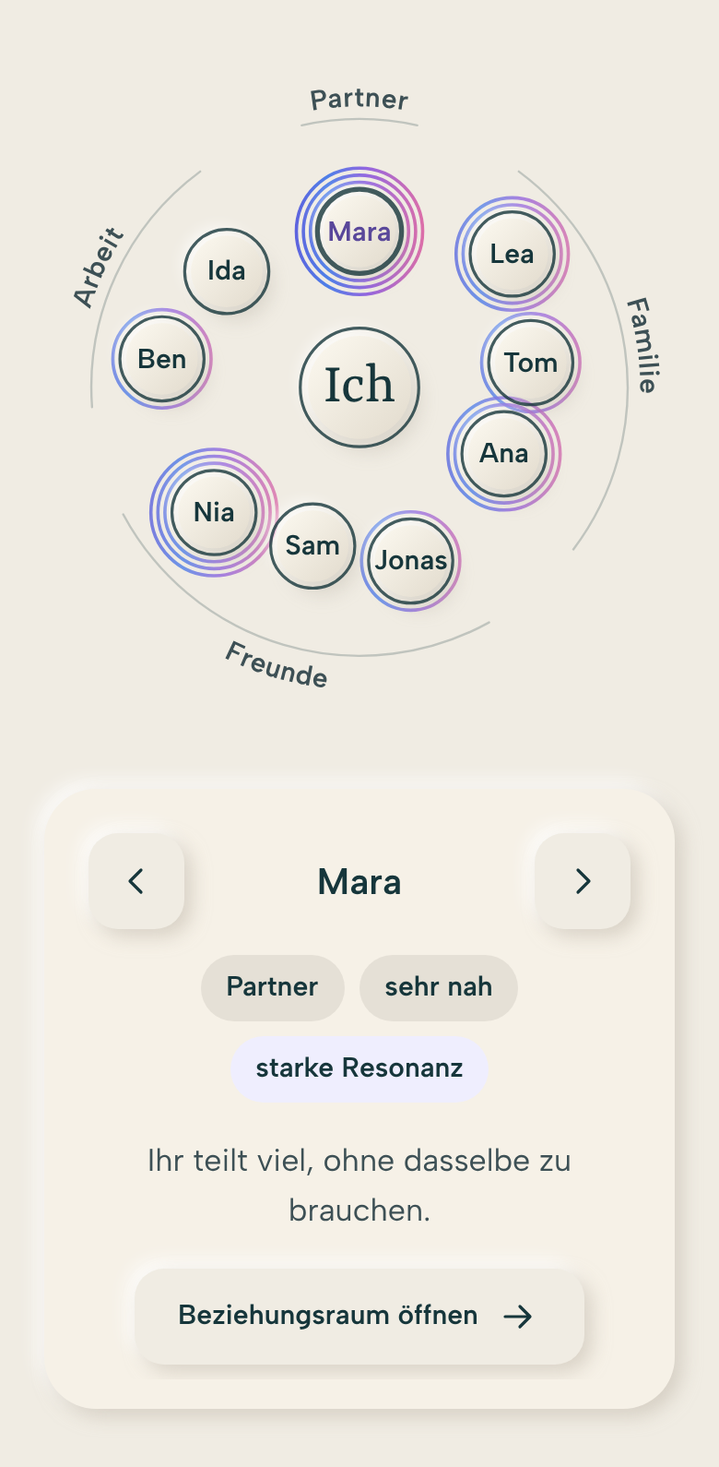
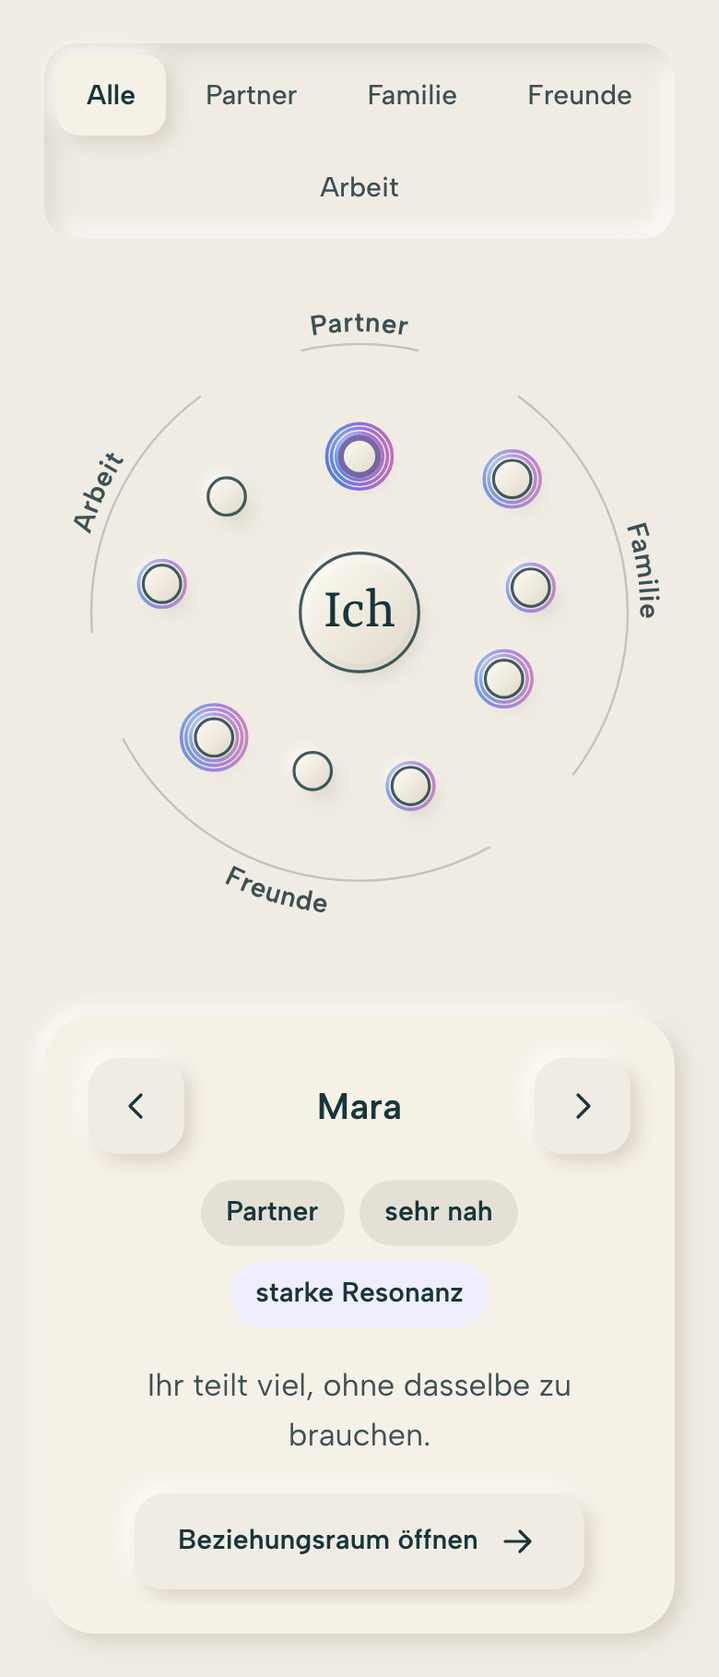
Umfeld auf dem Telefon: Übersicht und eine Gruppe gross
Über dem Bild wählt man «Alle» oder eine Art. «Alle» zeigt die Gruppen
als Punkte ohne Namen, eine Art zeigt ihre Menschen gross mit Namen. Der
Filter folgt der Auswahl. Am Desktop bleibt das Bild wie es ist. Entwurf,
noch ohne neue Version.

Claude-Session: https://claude.ai/code/session_01GcUU3Qg4dj9oPnZ4iDHoTB

diff --git a/components/umfeld/umfeld.js b/components/umfeld/umfeld.js
@@ -20,21 +20,30 @@
    Das Bild ist auf seinen Inhalt beschnitten (Rand 16 Einheiten),
    damit das Panel früh im Sichtfeld steht.
 
-   Mobile-first: Unter 560 px Breite gilt ein Hochformat mit grösseren
-   Kreisen, damit Namen in echten 15 px in ihren Kreis passen. Wird das
-   Element breiter oder schmaler, baut sich das Bild neu auf.
+   Mobile-first: Unter 560 px Breite gilt das Hochformat. Neun Menschen waren dort bei 390 px zu eng
+   (gemessen), darum steht über dem Bild eine Filterzeile: «Alle» ist die Übersicht, die Menschen
+   stehen als kleine Punkte ohne Namen in ihren Gruppen (je Gruppe ein transparenter Knopf, Tipp wählt
+   die Art). Eine Art zeigt nur ihre Menschen, gross und mit Namen, gleichmässig rund um «Ich», ohne
+   Bögen. Der Filter folgt der Auswahl: Pfeile und Slider laufen durch alle Menschen, und wechselt man
+   in eine andere Art, springt der Filter mit. Ab 560 px (wide) gibt es keinen Filter, das Bild zeigt
+   alle mit Namen. Wird das Element breiter oder schmaler, baut sich das Bild neu auf, die Auswahl bleibt.
 
    API: ElanumUmfeld.mount(root, { link: 'pfad/zum/beziehungsraum/', heading: 'h3' })
         gibt { select(i), parts } zurück. select(i) wählt den Menschen i (läuft um).
+        parts.people: je sichtbarem Menschen { index, person, disc, contour, rings, name (nur mit Namen), from, at, width },
+        parts.groups: die Gruppen-Knöpfe der Übersicht, parts.view: 'wide', 'all' oder 'kind'.
    ============================================================ */
 (function () {
   'use strict';
   var NS = 'http://www.w3.org/2000/svg';
-  /* ring: Abstand der Linien um die Person. Im Hochformat enger, damit sie im Bild bleiben.
+  /* ring: Abstand der Linien um die Person. In der Übersicht enger, damit sie im Bild bleiben.
      out: Radius der Bögen, fs0: Grundgrösse der Bogenwörter in Bildeinheiten, px0: Breite der Bühne, falls noch nicht messbar. */
   var LAYOUTS = {
     wide: { W: 760, H: 760, CX: 380, CY: 380, ME: 58, R: 40, base: 150, k: 1.15, edge: 340, ring: 7, out: 345, fs0: 17, px0: 640 },
-    tall: { W: 400, H: 400, CX: 200, CY: 200, ME: 38, R: 27, base: 92, k: 0.5, edge: 168, ring: 4.5, out: 172, fs0: 15, px0: 358 }
+    /* Übersicht auf dem Telefon: Menschen als kleine Punkte ohne Namen. */
+    all: { W: 400, H: 400, CX: 200, CY: 200, ME: 38, R: 12, base: 92, k: 0.5, edge: 168, ring: 3, out: 172, fs0: 15, px0: 358 },
+    /* Eine Art auf dem Telefon: gross, mit Namen, gleichmässig rund um «Ich», keine Bögen. */
+    kind: { W: 400, H: 400, CX: 200, CY: 200, ME: 52, R: 44, base: 120, k: 0.8, edge: 200, ring: 6, out: 172, fs0: 15, px0: 358 }
   };
   /* Der Winkel sagt die Art. Die Reihenfolge der Arten läuft im Uhrzeigersinn, die erste steht oben. */
   var KINDS = ['Partner', 'Familie', 'Freunde', 'Arbeit'];
@@ -62,7 +71,7 @@
     root.classList.add('umfeld');
     var ARROW_PREV = '<svg class="icon" viewBox="0 0 24 24" aria-hidden="true"><path d="M14.5 6l-6 6 6 6"/></svg>';
     var ARROW_NEXT = '<svg class="icon" viewBox="0 0 24 24" aria-hidden="true"><path d="M9.5 6l6 6-6 6"/></svg>';
-    root.innerHTML = '<div class="umfeld__stage"><div class="umfeld__scene"></div></div>' +
+    root.innerHTML = '<div class="umfeld__stage"><div class="umfeld__filter segmented" role="group" aria-label="Gruppe wählen" hidden></div><div class="umfeld__scene"></div></div>' +
       '<div class="umfeld__panel" role="group" aria-roledescription="Karussell" aria-label="Menschen in deinem Umfeld">' +
         '<div class="umfeld__nav">' +
           '<button class="button button--secondary button--icon glow-edge" type="button" data-nav="prev" aria-label="Vorheriger Mensch">' + ARROW_PREV + '</button>' +
@@ -74,9 +83,9 @@
         '</div>' +
         '<p class="umfeld__live" aria-live="polite"></p>' +
       '</div>';
-    var stage = root.querySelector('.umfeld__scene'), slider = root.querySelector('.umfeld__slides');
+    var stage = root.querySelector('.umfeld__scene'), filterBar = root.querySelector('.umfeld__filter'), slider = root.querySelector('.umfeld__slides');
     var current = root.querySelector('.umfeld__current'), live = root.querySelector('.umfeld__live');
-    var selected = 0, layoutName = '', api = { parts: {} };
+    var selected = 0, layoutName = '', filter = 'all', api = { parts: {} };
     var calm = function () { return window.matchMedia && matchMedia('(prefers-reduced-motion: reduce)').matches; };
 
     var slides = PEOPLE.map(function (p) {
@@ -143,27 +152,61 @@
     slider.addEventListener('click', function (e) { if (suppress) { e.preventDefault(); e.stopPropagation(); } }, true);
     slider.addEventListener('dragstart', function (e) { e.preventDefault(); });
 
-    /* Das Bild: aus einem Layout berechnet, bei Bedarf neu gezeichnet. */
+    /* Filterzeile (nur im Hochformat): «Alle» und je eine vorhandene Art. */
+    var KINDS_IN = KINDS.filter(function (k) { return PEOPLE.some(function (p) { return p.kind === k; }); });
+    var filterButtons = ['Alle'].concat(KINDS_IN).map(function (label) {
+      var b = document.createElement('button'); b.type = 'button'; b.textContent = label;
+      b.setAttribute('aria-pressed', 'false'); b.setAttribute('data-filter', label === 'Alle' ? 'all' : label);
+      b.addEventListener('click', function () { setFilter(label === 'Alle' ? 'all' : label); });
+      filterBar.appendChild(b); return b;
+    });
+    function markFilter() {
+      filterBar.hidden = layoutName === 'wide';
+      filterButtons.forEach(function (b) { b.setAttribute('aria-pressed', String(b.getAttribute('data-filter') === filter)); });
+    }
+    function firstOf(kind) { for (var i = 0; i < PEOPLE.length; i++) if (PEOPLE[i].kind === kind) return i; return 0; }
+    function setFilter(f) {
+      if (f === filter) return;
+      filter = f;
+      if (f !== 'all' && PEOPLE[selected].kind !== f) select(firstOf(f));
+      render(true);
+    }
+
+    /* Das Bild: aus einem Layout berechnet, bei Bedarf neu gezeichnet.
+       name: 'wide' oder 'tall'. Im Hochformat gilt je nach Filter die Übersicht ('all') oder eine Art ('kind'). */
     var lastW = -1;
+    function render(fade) {
+      draw(layoutName);
+      if (fade && !calm()) { stage.classList.remove('is-fresh'); void stage.offsetWidth; stage.classList.add('is-fresh'); }
+    }
     function draw(name) {
-      var L = LAYOUTS[name];
+      /* Der Filter folgt der Auswahl: nach einem Wechsel von wide auf tall passt er sich an. */
+      if (name === 'tall' && filter !== 'all' && PEOPLE[selected].kind !== filter) filter = PEOPLE[selected].kind;
+      var mode = name === 'wide' ? 'wide' : filter === 'all' ? 'all' : 'kind';
+      var L = LAYOUTS[mode];
+      var hadFocus = stage.contains(document.activeElement);
       layoutName = name;
       var px = stage.getBoundingClientRect().width; lastW = px;
+      /* Wer wird gezeichnet: alle, oder nur die gewählte Art. */
+      var list = [];
+      PEOPLE.forEach(function (p, i) { if (mode !== 'kind' || p.kind === filter) list.push({ p: p, i: i }); });
       /* Gruppen: Arten ohne Menschen bekommen keinen Platz. Jede Gruppe hat ihren Platz (slot), die Menschen stehen darin gleichmässig. */
-      var kinds = KINDS.filter(function (k) { return PEOPLE.some(function (p) { return p.kind === k; }); });
+      var kinds = mode === 'kind' ? [] : KINDS_IN;
       var per = (360 - GAP * kinds.length) / PEOPLE.length, at = 0;
       var groups = kinds.map(function (k, gi) {
         var n = PEOPLE.filter(function (p) { return p.kind === k; }).length;
         if (gi === 0) at = -per * n / 2;
-        var g = { kind: k, a0: at, a1: at + per * n, mid: at + per * n / 2 };
+        var g = { kind: k, a0: at, a1: at + per * n, mid: at + per * n / 2, n: n };
         at = g.a1 + GAP; return g;
       });
       var pos = function (a, d) { var r = a * Math.PI / 180; return [L.CX + d * Math.sin(r), L.CY - d * Math.cos(r)]; };
       var first = {};
       /* Lage aller Menschen zuerst: daraus wird das Bild auf den Inhalt beschnitten. */
-      var geo = PEOPLE.map(function (p) {
-        var gr = groups[kinds.indexOf(p.kind)], idx = first[p.kind] = (first[p.kind] === undefined ? 0 : first[p.kind] + 1);
-        var ang = gr.a0 + per * (idx + 0.5), dist = L.base + (100 - p.proximity) * L.k, xy = pos(ang, dist);
+      var geo = list.map(function (e, n) {
+        var p = e.p, ang;
+        if (mode === 'kind') ang = 360 / list.length * n;
+        else { var gr = groups[kinds.indexOf(p.kind)], idx = first[p.kind] = (first[p.kind] === undefined ? 0 : first[p.kind] + 1); ang = gr.a0 + per * (idx + 0.5); }
+        var dist = L.base + (100 - p.proximity) * L.k, xy = pos(ang, dist);
         var level = p.resonance === 0 ? 0 : p.resonance < 40 ? 1 : p.resonance < 80 ? 2 : 3;
         return { dist: dist, level: level, x: xy[0], y: xy[1] };
       });
@@ -185,7 +228,10 @@
           [[b0, b1, L.out], [gr.mid - half, gr.mid + half, outer]].forEach(function (r) {
             for (var a = r[0]; a <= r[1]; a += 1) { var c = pos(a, r[2]); grow(c[0], c[1]); }
           });
-          return { gr: gr, bottom: bottom, tr: tr, b0: b0, b1: b1 };
+          /* Rechteck des Wortes (für den Gruppen-Knopf der Übersicht). */
+          var lo = bottom ? tr - fs * 0.8 : tr, hi = bottom ? tr : tr + fs * 0.8, wx0 = 1e9, wx1 = -1e9, wy0 = 1e9, wy1 = -1e9;
+          for (var wa = gr.mid - half; wa <= gr.mid + half; wa += 1) [lo, hi].forEach(function (d) { var c = pos(wa, d); wx0 = Math.min(wx0, c[0]); wx1 = Math.max(wx1, c[0]); wy0 = Math.min(wy0, c[1]); wy1 = Math.max(wy1, c[1]); });
+          return { gr: gr, bottom: bottom, tr: tr, b0: b0, b1: b1, word: [wx0, wy0, wx1, wy1] };
         });
         var halfW = Math.max(L.W / 2, L.CX - minX + 8, maxX - L.CX + 8);
         vbX = L.CX - halfW; vbW = 2 * halfW;
@@ -195,7 +241,7 @@
       var fx = function (x) { return (x - vbX) / vbW * 100; };
       var fy = function (y) { return (y - vbY) / vbH * 100; };
       stage.innerHTML = '<svg class="umfeld__svg" viewBox="' + vbX + ' ' + vbY + ' ' + vbW + ' ' + vbH + '" aria-hidden="true"><defs></defs></svg>';
-      stage.dataset.layout = name;
+      stage.dataset.layout = name; stage.dataset.view = mode;
       var svg = stage.firstChild, defs = svg.firstChild;
       var relief = el('linearGradient', { id: uid + '-relief', x1: '0%', y1: '0%', x2: '100%', y2: '100%' });
       relief.appendChild(el('stop', { offset: 0, 'stop-color': '#FCF9F0' })); relief.appendChild(el('stop', { offset: 1, 'stop-color': '#E2DBCD' }));
@@ -231,17 +277,16 @@
         b.style.width = 2 * L.R / vbW * 100 + '%'; b.style.height = 2 * L.R / vbH * 100 + '%';
         b.addEventListener('click', function () { select(i); });
         b.addEventListener('keydown', function (e) {
-          var at = PEOPLE.indexOf(p), d = e.key === 'ArrowRight' || e.key === 'ArrowDown' ? 1 : e.key === 'ArrowLeft' || e.key === 'ArrowUp' ? -1 : 0;
+          var d = e.key === 'ArrowRight' || e.key === 'ArrowDown' ? 1 : e.key === 'ArrowLeft' || e.key === 'ArrowUp' ? -1 : 0;
           if (!d) return;
-          e.preventDefault(); select(at + d);
-          var q = api.parts.people[selected]; if (q) q.name.focus();
+          e.preventDefault(); select(i + d); focusSelected();
         });
         stage.appendChild(b); return b;
       };
       label('Ich', L.CX, L.CY, 'umfeld__name--me');
 
-      var people = PEOPLE.map(function (p, i) {
-        var g = geo[i], dist = g.dist, x = g.x, y = g.y, level = g.level;
+      var people = list.map(function (e, n) {
+        var p = e.p, i = e.i, g = geo[n], dist = g.dist, x = g.x, y = g.y, level = g.level;
         var ux = (x - L.CX) / dist, uy = (y - L.CY) / dist;
         var stroke = null, ringList = [];
         if (level) {
@@ -253,31 +298,74 @@
           var ring = el('circle', { cx: x, cy: y, r: L.R + L.ring * k, class: 'umfeld__ring', stroke: 'url(#' + uid + '-g' + i + ')', 'stroke-width': 1.8, 'data-ring': '' });
           rings.appendChild(ring); ringList.push(ring);
         }
-        var disc = el('circle', { cx: x, cy: y, r: L.R - 4, fill: 'url(#' + uid + '-relief)', class: 'relief-disc' });
+        var disc = el('circle', { cx: x, cy: y, r: L.R - (mode === 'all' ? 2 : 4), fill: 'url(#' + uid + '-relief)', class: 'relief-disc' });
         discs.appendChild(disc);
         var contour = el('circle', { cx: x, cy: y, r: L.R, class: 'umfeld__contour', 'data-contour': '' });
         lines.appendChild(contour);
-        return { person: p, rings: ringList, disc: disc, contour: contour, name: pick(p, i, x, y),
-          from: { x: L.CX + ux * L.edge, y: L.CY + uy * L.edge }, at: { x: x, y: y }, width: vbW };
+        return { index: i, person: p, rings: ringList, disc: disc, contour: contour, name: mode === 'all' ? null : pick(p, i, x, y),
+          from: { x: L.CX + ux * L.edge, y: L.CY + uy * L.edge }, at: { x: x, y: y }, width: vbW, r: L.R + L.ring * level };
       });
-      api.parts = { svg: svg, me: me, people: people, arcs: arcs, width: vbW, top: vbY, height: vbH };
-      mark();
+
+      /* Übersicht: über jeder Gruppe ein transparenter Knopf. Fläche = Punkte samt Ringen plus Wort, mindestens 44 px.
+         Schneiden sich zwei Flächen, gilt für diese nur die Fläche der Punkte samt Ringen. */
+      var groupBtns = [];
+      if (mode === 'all') {
+        var minU = 44 / ((px || L.px0) / vbW), minV = 44 / ((px || L.px0) / vbH);
+        var boxes = items.map(function (it) {
+          var d = [1e9, 1e9, -1e9, -1e9];
+          people.forEach(function (q) {
+            if (q.person.kind !== it.gr.kind) return;
+            d = [Math.min(d[0], q.at.x - q.r), Math.min(d[1], q.at.y - q.r), Math.max(d[2], q.at.x + q.r), Math.max(d[3], q.at.y + q.r)];
+          });
+          return { dots: d, full: [Math.min(d[0], it.word[0]), Math.min(d[1], it.word[1]), Math.max(d[2], it.word[2]), Math.max(d[3], it.word[3])] };
+        });
+        var atLeast = function (b) {
+          var cx = (b[0] + b[2]) / 2, cy = (b[1] + b[3]) / 2, w = Math.max(b[2] - b[0], minU), h = Math.max(b[3] - b[1], minV);
+          return [cx - w / 2, cy - h / 2, cx + w / 2, cy + h / 2];
+        };
+        var cut = function (a, b) { return a[0] < b[2] && b[0] < a[2] && a[1] < b[3] && b[1] < a[3]; };
+        var rect = boxes.map(function (b) { return atLeast(b.full); }), mode2 = rect.map(function () { return 'wort'; });
+        rect.forEach(function (a, x) { rect.forEach(function (b, y) { if (x < y && cut(a, b)) mode2[x] = mode2[y] = 'punkte'; }); });
+        rect = boxes.map(function (b, x) { return atLeast(mode2[x] === 'wort' ? b.full : b.dots); });
+        items.forEach(function (it, gi) {
+          var r = rect[gi], b = document.createElement('button'), n = it.gr.n;
+          b.type = 'button'; b.className = 'umfeld__group'; b.setAttribute('data-kind', it.gr.kind); b.setAttribute('data-fit', mode2[gi]);
+          b.setAttribute('aria-label', it.gr.kind + ', ' + n + (n === 1 ? ' Mensch' : ' Menschen') + ', öffnen');
+          b.style.left = fx(r[0]) + '%'; b.style.top = fy(r[1]) + '%';
+          b.style.width = (r[2] - r[0]) / vbW * 100 + '%'; b.style.height = (r[3] - r[1]) / vbH * 100 + '%';
+          b.addEventListener('click', function () { setFilter(it.gr.kind); });
+          stage.appendChild(b); groupBtns.push(b);
+        });
+      }
+      api.parts = { svg: svg, me: me, people: people, arcs: arcs, groups: groupBtns, view: mode, width: vbW, top: vbY, height: vbH };
+      mark(); markFilter();
+      /* Fokus geht beim Neuzeichnen nicht verloren. */
+      if (hadFocus) focusSelected();
+    }
+
+    /* Fokus auf den Knopf des gewählten Menschen, in der Übersicht auf den Knopf seiner Gruppe. */
+    function focusSelected() {
+      var q = (api.parts.people || []).filter(function (x) { return x.index === selected; })[0];
+      if (q && q.name) { q.name.focus(); return; }
+      var g = (api.parts.groups || []).filter(function (x) { return x.getAttribute('data-kind') === PEOPLE[selected].kind; })[0];
+      if (g) g.focus();
     }
 
     function mark() {
-      (api.parts.people || []).forEach(function (q, k) {
-        var on = k === selected;
+      (api.parts.people || []).forEach(function (q) {
+        var on = q.index === selected;
         q.contour.classList.toggle('is-active', on);
-        q.name.classList.toggle('is-active', on);
         q.rings.forEach(function (r) { r.classList.toggle('is-active', on); });
+        if (q.name) { q.name.classList.toggle('is-active', on); q.name.setAttribute('aria-pressed', String(on)); }
       });
-      (api.parts.people || []).forEach(function (q, k) { q.name.setAttribute('aria-pressed', String(k === selected)); });
     }
     function select(i, fromScroll) {
       i = ((i % PEOPLE.length) + PEOPLE.length) % PEOPLE.length;
       var first = !api.ready;
-      selected = i; mark();
+      selected = i;
       var p = PEOPLE[i];
+      /* Gehört der Mensch zu einer anderen Art, wechselt der Filter mit (nur im Hochformat). */
+      if (layoutName === 'tall' && filter !== 'all' && p.kind !== filter) { filter = p.kind; render(true); } else mark();
       slides.forEach(function (s, k) {
         var on = k === i;
         if (on) { s.removeAttribute('inert'); s.removeAttribute('aria-hidden'); } else { s.setAttribute('inert', ''); s.setAttribute('aria-hidden', 'true'); }
@@ -287,7 +375,9 @@
       if (!first) live.textContent = 'Du & ' + p.name + ', ' + words(p);
       if (!fromScroll) slideTo(i, !first);
     }
-    var pickLayout = function () { var w = stage.getBoundingClientRect().width || root.getBoundingClientRect().width; return w && w < 560 ? 'tall' : 'wide'; };
+    /* Die Breite der Bühne (Spalte), nicht der Szene: im Hochformat ist die Szene höchstens 440 px breit und käme sonst nie mehr zurück auf wide. */
+    var column = root.querySelector('.umfeld__stage');
+    var pickLayout = function () { var w = column.getBoundingClientRect().width || root.getBoundingClientRect().width; return w && w < 560 ? 'tall' : 'wide'; };
     draw(pickLayout());
     select(0);
     api.ready = true;

diff --git a/assets/motion.js b/assets/motion.js
@@ -243,7 +243,8 @@
       /* Bis die Szene sichtbar wird, bleibt sie verborgen, statt kurz voll dazustehen
          und dann für den Auftritt wieder zu verschwinden. */
       var panel = el.querySelector('.umfeld__panel');
-      var veiled = [stage, panel].filter(Boolean);
+      var filter = el.querySelector('.umfeld__filter');
+      var veiled = [stage, filter, panel].filter(Boolean);
       hideUntilVisible(veiled);
       finishers.push(function () { gsap.set(veiled, { clearProps: 'opacity' }); });
       whenVisible(stage, function () {
@@ -258,7 +259,8 @@
           var dx = p.from.x - p.at.x, dy = p.from.y - p.at.y, at = 0.3 + i * M.stagger.items;
           tl.from([p.disc, p.contour], { x: dx, y: dy, opacity: 0, duration: 1.3 }, at);
           if (p.rings.length) tl.from(p.rings, { x: dx, y: dy, duration: 1.3, clearProps: 'transform' }, at);
-          tl.fromTo(p.name, { x: dx * scale, y: dy * scale, opacity: 0 }, { x: 0, y: 0, opacity: 1, duration: 1.3, clearProps: CLEAR }, at);
+          /* In der Übersicht (Telefon) gibt es keine Namen-Knöpfe: nichts zu bewegen. */
+          if (p.name) tl.fromTo(p.name, { x: dx * scale, y: dy * scale, opacity: 0 }, { x: 0, y: 0, opacity: 1, duration: 1.3, clearProps: CLEAR }, at);
         });
         /* Die Linien um die Person blenden sanft ein, wo vorher die Verbindung gezeichnet wurde. */
         people.forEach(function (p, i) { if (p.rings.length) tl.from(p.rings, { opacity: 0, duration: 0.9, ease: M.ease.reveal, stagger: 0.15, clearProps: 'opacity' }, 1.4 + i * 0.15); });
@@ -266,6 +268,8 @@
         if (api.parts.arcs && api.parts.arcs.length) tl.from(api.parts.arcs, { opacity: 0, duration: 0.8, ease: M.ease.reveal, stagger: 0.08, clearProps: 'opacity' }, 1.0);
         /* Das Panel als Ganzes früh: die Bedienung steht da, bevor die Kreise ankommen. */
         if (panel) tl.from(panel, { opacity: 0, y: M.y, duration: 0.6, clearProps: CLEAR }, 0.4);
+        /* Die Filterzeile (nur im Hochformat sichtbar) kommt mit dem Panel. */
+        if (filter && !filter.hidden) tl.from(filter, { opacity: 0, y: M.y, duration: 0.6, clearProps: CLEAR }, 0.4);
       }, 0.3);
     });
   }

diff --git a/components/umfeld/umfeld.css b/components/umfeld/umfeld.css
@@ -40,3 +40,14 @@
 .umfeld__scene[data-layout=tall] .umfeld__name{font:var(--type-label);font-weight:600}
 .umfeld__scene[data-layout=tall] .umfeld__name--me{font:var(--type-title);font-size:32px;line-height:1}
 @media(min-width:900px){.umfeld{grid-template-columns:minmax(0,1.2fr) minmax(0,.8fr);column-gap:clamp(48px,6vw,96px);align-items:center}}
+/* Filterzeile im Hochformat: Pillen wie .segmented (base.css), mittig umbrechend. Im breiten Layout verborgen. */
+.umfeld__filter{justify-content:center;max-width:100%;box-sizing:border-box}
+.umfeld__filter[hidden]{display:none}
+/* Übersicht: Menschen sind Punkte, die gewählte hat eine kräftigere Kontur. Je Gruppe liegt ein transparenter Knopf darüber. */
+.umfeld__scene[data-view=all] .umfeld__contour.is-active:not(.umfeld__me){stroke:var(--sterne-tief);stroke-width:3.2}
+.umfeld__group{position:absolute;display:block;padding:0;border:0;border-radius:14px;background:transparent;color:inherit;cursor:pointer;-webkit-tap-highlight-color:transparent}
+.umfeld__group:focus-visible{outline-offset:-3px}
+/* Ein Wechsel des Filters blendet das neue Bild weich ein (nur Deckkraft). */
+@keyframes umfeld-fresh{from{opacity:0}to{opacity:1}}
+.umfeld__scene.is-fresh{animation:umfeld-fresh 220ms ease-out}
+@media(prefers-reduced-motion:reduce){.umfeld__scene.is-fresh{animation:none}}

diff --git a/DESIGN-NOTES.md b/DESIGN-NOTES.md
@@ -245,7 +245,7 @@ Im Zentrum steht das Resonanzrad mit neun Elementen: den Grundlagen, aus denen R
 - Der Ring zeigt die drei Bereiche gleich stark und hebt nichts hervor. Icons, Konturen und Auswahlbogen sind Ink.
 - Seit 4.11.1 steht das Rad still: Ein Tipp wählt das Stück an seinem Platz, nichts dreht und nichts lässt sich ziehen. In der App wählen Rad und Pfeile nur, «Lesen» und die Liste öffnen das Element als Fenster (Telefon von unten, Computer Mitte); dieser Aufbau ist im Baustein noch nicht nachgebaut.
 
-**Umfeld** (`components/umfeld/`): Ich in der Mitte, Menschen als eigene, geschlossene Kreise. Der Abstand zeigt die Nähe. Null bis drei Linien im Verlauf um die Person zeigen die Resonanz, wie im Beziehungsraum; ohne aktive Resonanz gibt es keine Linie. Keine Linie führt zur Mitte, und einen Freiraum gibt es nicht, weil das Umfeld den Wert nicht kennt. Die Kreise sind Knöpfe: Ein Klick auf Kreis oder Name wählt den Menschen. Aufbau: das Bild, darunter ein einziges Panel (erhöhte Karte, ohne Trennstrich). Oben im Panel stehen die Pfeile (wie beim Resonanzrad) mit dem Namen des gewählten Menschen, direkt darunter Nähe und Resonanz als Pillen, die Notiz und der Knopf, alles zentriert. Jede Angabe steht nur einmal: kein „Du & Name“ und keine zweite Zustandszeile. Der Lesebereich lässt sich mit Finger oder Maus ziehen, Kreis, Name und Lesebereich bleiben im Gleichschritt. Die Liste entfällt, und die Karte mit Zähler ebenso (Rückmeldung Chris vom 15.11.2026: Design wie Ich-Übersicht, gleiche Pfeile, Pillen, mehr Raum und früher sichtbar; Rückmeldung Chris vom 16.11.2026: eine Einheit, jede Angabe einmal). Das Bild ist senkrecht auf den Inhalt beschnitten, damit das Panel früh im Sichtfeld steht, und im Auftritt erscheint es als Ganzes nach 0,4 Sekunden. Ab 900 px steht das Panel rechts neben dem Bild, zur Bildmitte ausgerichtet. Der Lesebereich öffnet den Beziehungsraum mit den Werten des Menschen. So trägt das Umfeld mehr als eine einzelne Beziehung. Unter 560 px Breite gilt ein Hochformat mit grösseren Kreisen, damit die Namen in echten 15 px hineinpassen. Entwurf vom 15.11.2026, die Version ist noch nicht freigegeben. Cluster nach Art: Der Winkel ist die Art, der Abstand die Nähe, die Linien sind die Resonanz. Wer zusammengehört, steht beieinander. Ein feiner Bogen mit dem Wort der Art fasst jede Gruppe, wie die Bereiche des Resonanzrads (Wort mindestens 15 px, in der unteren Hälfte andersherum, damit es nicht auf dem Kopf steht). Arten ohne Menschen bekommen keinen Platz, zwischen den Gruppen liegen 16°, die erste Gruppe steht oben. Die Art steht als erste Pille beim Menschen. Die Liste Partner, Familie, Freunde, Arbeit hat Chris am 16.11.2026 freigegeben. Der Glossar-Eintrag dazu steht noch aus. Auf dem Telefon wird es ab etwa acht Menschen eng, dann braucht es einen Filter nach Art.
+**Umfeld** (`components/umfeld/`): Ich in der Mitte, Menschen als eigene, geschlossene Kreise. Der Abstand zeigt die Nähe. Null bis drei Linien im Verlauf um die Person zeigen die Resonanz, wie im Beziehungsraum; ohne aktive Resonanz gibt es keine Linie. Keine Linie führt zur Mitte, und einen Freiraum gibt es nicht, weil das Umfeld den Wert nicht kennt. Die Kreise sind Knöpfe: Ein Klick auf Kreis oder Name wählt den Menschen. Aufbau: das Bild, darunter ein einziges Panel (erhöhte Karte, ohne Trennstrich). Oben im Panel stehen die Pfeile (wie beim Resonanzrad) mit dem Namen des gewählten Menschen, direkt darunter Nähe und Resonanz als Pillen, die Notiz und der Knopf, alles zentriert. Jede Angabe steht nur einmal: kein „Du & Name“ und keine zweite Zustandszeile. Der Lesebereich lässt sich mit Finger oder Maus ziehen, Kreis, Name und Lesebereich bleiben im Gleichschritt. Die Liste entfällt, und die Karte mit Zähler ebenso (Rückmeldung Chris vom 15.11.2026: Design wie Ich-Übersicht, gleiche Pfeile, Pillen, mehr Raum und früher sichtbar; Rückmeldung Chris vom 16.11.2026: eine Einheit, jede Angabe einmal). Das Bild ist senkrecht auf den Inhalt beschnitten, damit das Panel früh im Sichtfeld steht, und im Auftritt erscheint es als Ganzes nach 0,4 Sekunden. Ab 900 px steht das Panel rechts neben dem Bild, zur Bildmitte ausgerichtet. Der Lesebereich öffnet den Beziehungsraum mit den Werten des Menschen. So trägt das Umfeld mehr als eine einzelne Beziehung. Unter 560 px Breite der Bühne gilt das Hochformat (Telefon): Über dem Bild steht eine Filterzeile nach Art («Alle», Partner, Familie, Freunde, Arbeit). «Alle» ist die Übersicht, die Menschen stehen als kleine Punkte ohne Namen in ihren Gruppen, über jeder Gruppe liegt ein einziger Knopf (Tipp wählt die Art und den ersten Menschen). Eine Art zeigt nur ihre Menschen, gross und mit Namen in echten 15 px, gleichmässig rund um «Ich», ohne Bögen. Pfeile und Slider laufen weiter durch alle Menschen, der Filter folgt der Auswahl. Grund: Neun Menschen waren bei 390 px zu eng, gemessen (Ringe überlappten um 4 bis 6 px, bei 320 px ragte «Jonas» aus dem Kreis). Entscheid Chris vom 16.11.2026. Ab 560 px gibt es keinen Filter, das Bild zeigt alle mit Namen. Entwurf vom 15.11.2026, die Version ist noch nicht freigegeben. Cluster nach Art: Der Winkel ist die Art, der Abstand die Nähe, die Linien sind die Resonanz. Wer zusammengehört, steht beieinander. Ein feiner Bogen mit dem Wort der Art fasst jede Gruppe, wie die Bereiche des Resonanzrads (Wort mindestens 15 px, in der unteren Hälfte andersherum, damit es nicht auf dem Kopf steht). Arten ohne Menschen bekommen keinen Platz, zwischen den Gruppen liegen 16°, die erste Gruppe steht oben. Die Art steht als erste Pille beim Menschen. Die Liste Partner, Familie, Freunde, Arbeit hat Chris am 16.11.2026 freigegeben. Der Glossar-Eintrag dazu steht noch aus. Der Filter nach Art auf dem Telefon ist umgesetzt (siehe oben).
 
 **Beziehungsraum** (`components/beziehungsraum/`), neue Darstellung vom 15.11.2026 (Entwurf, PR 24). Der Baustein wird in der App ohne Regler gezeigt, darum muss das Bild allein lesbar sein. Jeder Wert hat ein eigenes Zeichen:
 - SVG-Raum 720 × 400, Mitte y = 170. Die Person ist ein Kreis mit Radius 50, immer gleich gross.

diff --git a/README.md b/README.md
@@ -199,7 +199,7 @@ Jeder Baustein ist ein klassisches Skript und legt ein Objekt auf `window`. Mit 
 **Umfeld** · `components/umfeld/`, dazu `beziehungsraum.css` · `window.ElanumUmfeld`
 
 - `mount(root, { link, heading })` zeichnet Ich und die Menschen darum und gibt `{ select(i), parts }` zurück. `link` führt zum Beziehungsraum, ergänzt um `?person=…&proximity=…&resonance=…`.
-- Bedienung: Die Kreise im Bild sind Knöpfe (Pfeiltasten wechseln den Menschen). Aufbau: das Bild, darunter (ab 900 px daneben) ein Panel `.umfeld__panel` (erhöhte Karte). Oben im Panel `.umfeld__nav` mit den Pfeilen und dem Namen des gewählten Menschen (`.umfeld__current`, als Überschrift im mit `heading` gewählten Level), darunter der Lesebereich `.umfeld__reader` mit Pillen für Nähe und Resonanz, Notiz und Knopf, zentriert, zum Ziehen mit Finger oder Maus. Jede Angabe steht nur einmal. Das Bild ist senkrecht auf den Inhalt beschnitten. Eine Liste gibt es nicht. Grund: Rückmeldungen Chris vom 15.11. und 16.11.2026, Design wie die Ich-Übersicht, eine Einheit.
+- Bedienung: Die Kreise im Bild sind Knöpfe (Pfeiltasten wechseln den Menschen). Aufbau: das Bild, darunter (ab 900 px daneben) ein Panel `.umfeld__panel` (erhöhte Karte). Oben im Panel `.umfeld__nav` mit den Pfeilen und dem Namen des gewählten Menschen (`.umfeld__current`, als Überschrift im mit `heading` gewählten Level), darunter der Lesebereich `.umfeld__reader` mit Pillen für Nähe und Resonanz, Notiz und Knopf, zentriert, zum Ziehen mit Finger oder Maus. Jede Angabe steht nur einmal. Das Bild ist senkrecht auf den Inhalt beschnitten. Eine Liste gibt es nicht. Unter 560 px Breite (Telefon) steht über dem Bild die Filterzeile `.umfeld__filter` («Alle» und je eine Art): «Alle» zeigt die Menschen als Punkte ohne Namen mit einem Knopf `.umfeld__group` je Gruppe, eine Art zeigt ihre Menschen gross mit Namen. Pfeile und Slider laufen durch alle, der Filter folgt der Auswahl. `parts.view` ist `wide`, `all` oder `kind`. Grund: Rückmeldungen Chris vom 15.11. und 16.11.2026, Design wie die Ich-Übersicht, eine Einheit.
 - `people`: die Menschen der Vorschau, je mit `kind` (Art), `proximity` und `resonance`. Der Winkel sagt die Art (Partner, Familie, Freunde, Arbeit, im Uhrzeigersinn, die erste oben), der Abstand die Nähe, die Linien die Resonanz. Ein feiner Bogen mit dem Wort der Art fasst jede Gruppe (`parts.arcs`), das Wort misst am Bildschirm mindestens 15 px. Die Art steht als erste Pille. Auf dem Telefon wird es ab etwa acht Menschen eng, dann braucht es einen Filter nach Art.
 
 ```html
